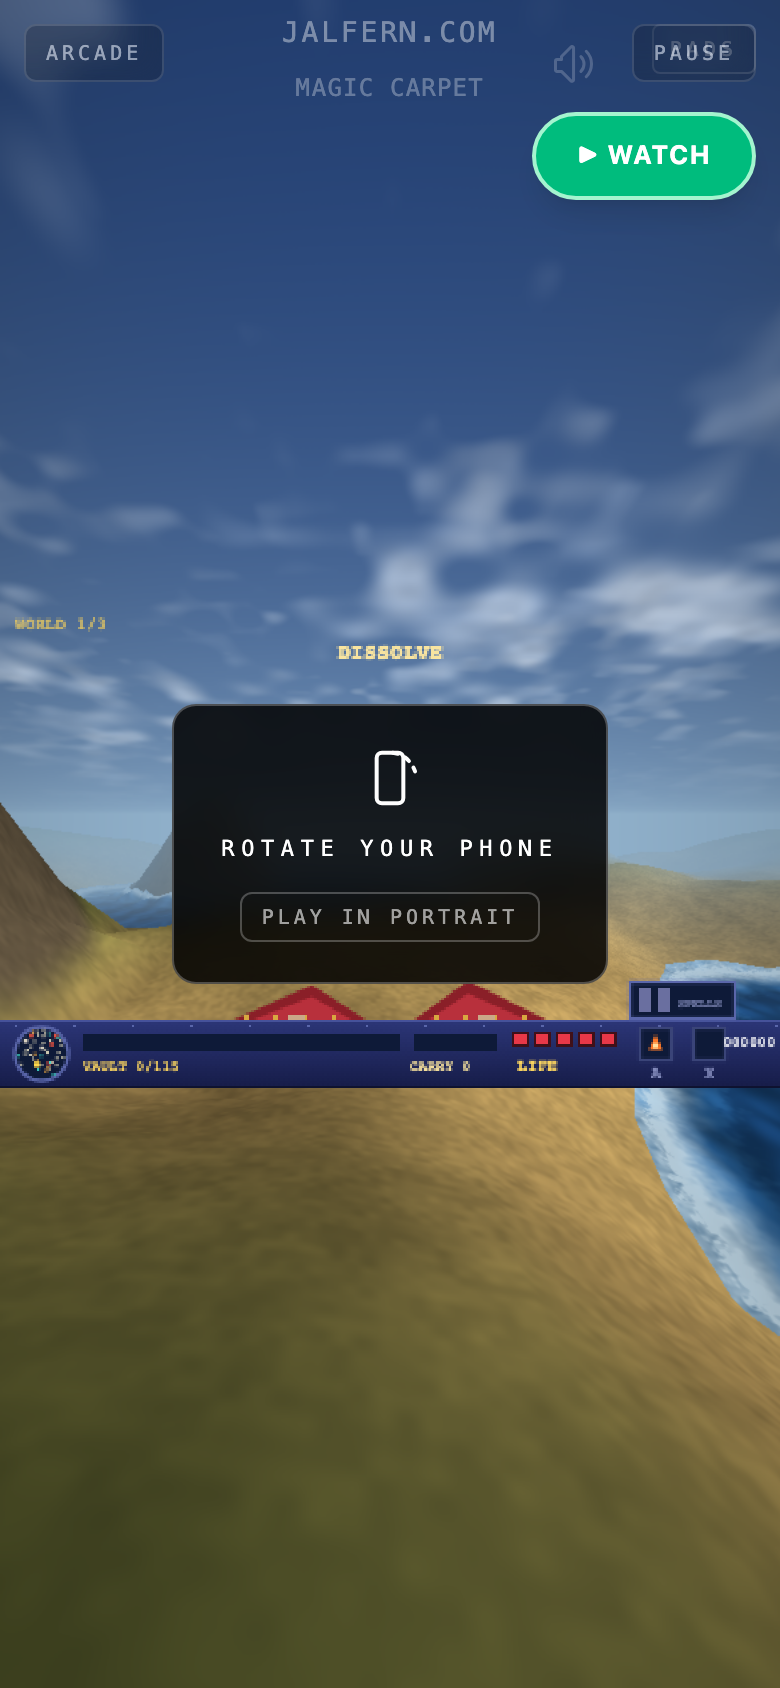
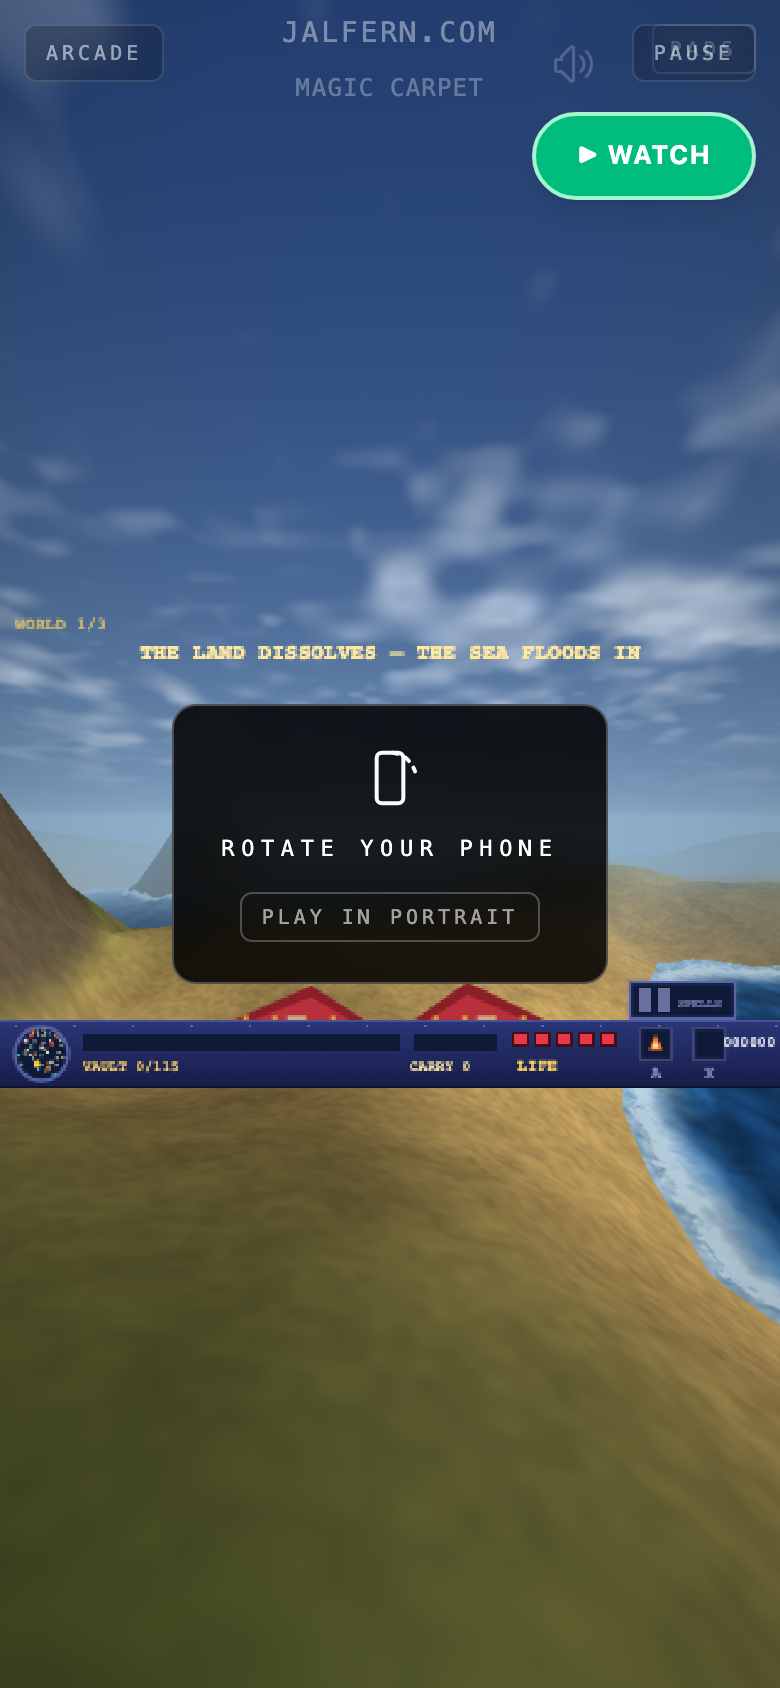
MagicCarpet #1697: crumble landing feedback — size/proximity-scaled thud+slurp on the muffle bus, landing shake, cold grit puff off the deform queue, 13 carpetcheck gates

diff --git a/src/games/MagicCarpet/sim.js b/src/games/MagicCarpet/sim.js
@@ -121,8 +121,16 @@ export const CRUMBLE_T = 10
 const sinkCurve = (a) => (a / CRUMBLE_T) ** 2            // collapse accelerates down
 const swellCurve = (a) => 1 - (1 - a / CRUMBLE_T) ** 2   // mounds swell up, ease-out
 
-function queueDeform(gs, cells, deltas, swell, rimCells, rimAmp) {
-    gs.deforms.push({ cells, deltas, e: swell ? 1 : 0, a: 0, done: 0, rimCells, rimAmp, rimPrev: 0 })
+// kind/mag/x/y/hot (#1697): what landed, how hard, where, and whether the
+// crater is hot. Presentation-only fields — they feed the landing thud, the
+// slurp and the grit puff, never the rules (stateHash never reads them).
+function queueDeform(gs, cells, deltas, swell, rimCells, rimAmp, kind, x, y, hot = 0) {
+    let mag = 0
+    for (const d of deltas) if (Math.abs(d) > mag) mag = Math.abs(d)
+    gs.deforms.push({
+        cells, deltas, e: swell ? 1 : 0, a: 0, done: 0, rimCells, rimAmp, rimPrev: 0,
+        kind, mag, x: wrap(x, MAP), y: wrap(y, MAP), hot,
+    })
 }
 
 function drainDeforms(gs) {
@@ -145,7 +153,20 @@ function drainDeforms(gs) {
             const gi = d.rimCells[i]
             gs.heights[gi] = Math.max(0, Math.min(96, gs.heights[gi] + dd))
         }
-        if (last) gs.deforms.splice(di, 1)
+        if (last) {
+            // #1697: the landing. A sink that finishes is ground that just
+            // dropped — say so (thud/shake/grit in the presentation layer,
+            // driven by these events). Mounds (swell) land upward without an
+            // impact: no thud, no grit, the swell sound already told it.
+            if (d.e === 0) {
+                gs.events.push({
+                    type: 'crumble', kind: d.kind, mag: d.mag, x: d.x, y: d.y,
+                    r: d.cells.length ? Math.ceil(Math.sqrt(d.cells.length)) * CELL : 0,
+                    hot: d.hot, flooded: d.kind === 'dissolve' ? 1 : 0,
+                })
+            }
+            gs.deforms.splice(di, 1)
+        }
     }
 }
 
@@ -169,7 +190,7 @@ export function crater(gs, x, y, r, depth, hot = 0) {
             else if (d <= r * 1.25) rimCells.push(gi)
         }
     }
-    queueDeform(gs, cells, deltas, 0, rimCells, 0.18 * depth)
+    queueDeform(gs, cells, deltas, 0, rimCells, 0.18 * depth, 'crater', x, y, hot)
     gs.craters.push({ x: wrap(x, MAP), y: wrap(y, MAP), r, t: gs.tick, hot })
     if (gs.craters.length > 10) gs.craters.shift()
 }
@@ -198,7 +219,7 @@ export function raiseTerrain(gs, x, y, r, hgt) {
         }
     }
     // the ground feeds the mound from around it: the rim dips while it swells
-    queueDeform(gs, cells, deltas, 1, rimCells, -0.15 * hgt)
+    queueDeform(gs, cells, deltas, 1, rimCells, -0.15 * hgt, 'raise', x, y)
     gs.events.push({ type: 'raise', x: wrap(x, MAP), y: wrap(y, MAP), r })
 }
 
@@ -236,7 +257,7 @@ export function dissolveLand(gs, x, y) {
     }
     // #1694: the wound opens over the crumble window — the guaranteed flood
     // arrives as the land sinks (complete by cast + CRUMBLE_T, same clamp).
-    queueDeform(gs, cells, deltas, 0, rimCells, 0.18 * DISSOLVE_SINK)
+    queueDeform(gs, cells, deltas, 0, rimCells, 0.18 * DISSOLVE_SINK, 'dissolve', x, y)
     const gone = []
     gs.huts.forEach((hs, i) => {
         if (Math.hypot(wrapD(hs.x - dx0), wrapD(hs.y - dy0)) < DISSOLVE_R) gone.push(i)
@@ -738,6 +759,20 @@ export const OPEN_CUTOFF = 18000
 export const MUFFLE_CUTOFF = 520
 export function muffleOf(gs) {
     return gs.invis > 0 ? MUFFLE_CUTOFF : OPEN_CUTOFF
+}
+
+// #1697: how a finished crumble LANDS on the wizard on the carpet — pure read
+// of the landing event plus where the carpet is, like muffleOf is of the veil.
+// Size scales the thud (a bolt crater is a knock, a volcano vent a collapse);
+// distance scales everything to silence: beyond CRUMBLE_HEAR_R the cast was
+// over the next hill — no thud, no shake, only the eye gets it. Never feeds
+// stateHash: it drives feel, not rules.
+export const CRUMBLE_HEAR_R = 90
+export function crumbleFeel(gs, e) {
+    const d = Math.hypot(wrapD(e.x - gs.x), wrapD(e.y - gs.y))
+    const prox = Math.max(0, 1 - d / CRUMBLE_HEAR_R)
+    const size = Math.min(1, e.mag / 12)
+    return { prox, vol: prox * (0.35 + 0.65 * size), shake: prox * (0.8 + 4.2 * size) }
 }
 
 export function step(gs, inp) {

diff --git a/src/games/MagicCarpet/index.jsx b/src/games/MagicCarpet/index.jsx
@@ -19,7 +19,7 @@ import {
     LEVELS,
     SPILLS, spellById,
     makeGame, step, autopilot, stateHash, setHand, cycleR, cycleL, crater, settleGround, INVIS_T,
-    hudTap, TAP, TRAY, muffleOf, OPEN_CUTOFF,
+    hudTap, TAP, TRAY, muffleOf, OPEN_CUTOFF, crumbleFeel,
 } from './sim.js'
 import { createCarpetGL } from './renderer.js'
 
@@ -308,6 +308,27 @@ const MagicCarpetGame = () => {
                     audioController.playSweep(180, 44, 0.8, 'sine', 0.08)
                     shake = Math.max(shake, 5)
                     say('THE LAND DISSOLVES — THE SEA FLOODS IN')
+                } else if (e.type === 'crumble') {
+                    // #1697: the ground finishes dropping and says so. Routed on
+                    // the muffle bus (#1612) — one-shot SFX bypass that bus, so
+                    // an unmuffled thud would cut the veil's hush; these are
+                    // heard *through* the carpet while veiled. Size scales the
+                    // note, proximity scales everything: distant casts land silent.
+                    const f = crumbleFeel(gs, e)
+                    if (f.shake > 0.3) shake = Math.max(shake, f.shake)
+                    if (f.vol > 0.03) {
+                        const size = Math.min(1, e.mag / 12)
+                        if (e.kind === 'dissolve') {
+                            // the sea pouring into a new wound: a glide down into
+                            // a thick low glug
+                            audioController.ambSweep(300, 70, 0.42, 'sine', 0.1 * f.vol)
+                            audioController.ambTone(88, 0.12, 'triangle', 0.07 * f.vol, 0.18)
+                        } else {
+                            // sub-bass thud: bigger craters sit lower and longer
+                            audioController.ambTone(66 - size * 24, 0.14 + size * 0.24, 'square', 0.11 * f.vol)
+                            audioController.ambTone(41 - size * 8, 0.3 + size * 0.3, 'square', 0.05 * f.vol, 0.08)
+                        }
+                    }
                 } else if (e.type === 'dissolveHut') {
                     // A hut swallowed whole: one muffled gulp of water.
                     audioController.playSweep(300, 90, 0.22, 'triangle', 0.05)
@@ -916,7 +937,9 @@ const MagicCarpetGame = () => {
                     settleGround(gs) // #1694: the dig gates read the LANDED crater, not the window
                     return gs.craters.length
                 },
-                fx: (e) => { if (renderer) renderer.handleEvents([e], gs) },
+                fx: (e) => { handleEvents([e]); if (renderer) renderer.handleEvents([e], gs) },
+                sfx: () => audioController.sfx,
+                carpet: () => ({ x: gs.x, y: gs.y, seed: gs.seed }),
                 veil: () => { gs.invis = 400; return gs.invis },
                 killHut: () => { const hs = gs.huts[0]; hs.burn = 0; hs.dead = true; return 1 },
                 // #1673 (phone pass): the browser-side tray/tap gates need a spell

diff --git a/src/games/MagicCarpet/renderer.js b/src/games/MagicCarpet/renderer.js
@@ -606,6 +606,29 @@ void main(){
         }
     }
 
+    // #1697: fresh craters throw grit as the crumble window closes — cold dust
+    // riding the #1646 ash pool (hops and settles, dies fast). Deliberately no
+    // scorch and no fire tint: the original's cold craters stayed cold, and a
+    // hot crater's heat glows in the pit — the grit it throws is just rock.
+    const spawnGrit = (gs, e) => {
+        if (e.kind !== 'crater' || e.mag < 3) return
+        const wrapv = (v) => ((v % MAP) + MAP) % MAP
+        const n = Math.min(14, 4 + Math.round(e.mag))
+        const col = [0.58, 0.53, 0.44]
+        for (let i = 0; i < n; i++) {
+            const a = Math.random() * Math.PI * 2, rr = e.r * (1 + Math.random() * 0.25)
+            const gx = wrapv(e.x + Math.cos(a) * rr), gy = wrapv(e.y + Math.sin(a) * rr)
+            spawn(gx, heightAt(gs, gx, gy) + 0.8 + Math.random(), gy, 'ash',
+                Math.cos(a) * 0.4, 0.5 + Math.random() * 1.2, Math.sin(a) * 0.4,
+                0.5 + e.mag * 0.06 + Math.random() * 0.5, 26 + Math.random() * 18, col)
+        }
+        for (let i = 0; i < Math.max(2, n / 5); i++) {
+            const a = Math.random() * Math.PI * 2, rr = e.r * (0.9 + Math.random() * 0.3)
+            const gx = wrapv(e.x + Math.cos(a) * rr), gy = wrapv(e.y + Math.sin(a) * rr)
+            spawn(gx, heightAt(gs, gx, gy) + 1, gy, 'smoke', (Math.random() - 0.5) * 0.3, 0.3 + Math.random() * 0.3, (Math.random() - 0.5) * 0.3, 1.6 + Math.random() * 1.2, 36 + Math.random() * 24, [0.5, 0.46, 0.4])
+        }
+    }
+
     // Volcano vents (#1612 item 5): live lava fountains for a while after an
     // eruption. Presentation-only; the sim's hot craters carry the truth.
     const vents = []
@@ -648,6 +671,7 @@ void main(){
             else if (e.type === 'towerDown') { spawnBurst(gs, e.x, e.y, 14, [1.0, 0.45, 0.2]); addScorch(e.x, e.y, 12, 0.5) }
             else if (e.type === 'wizardDown') { spawnBurst(gs, e.x, e.y, 22, [1.4, 0.5, 0.3]); addScorch(e.x, e.y, 18, 0.6) }
             else if (e.type === 'kill') spawnCrumble(gs, e.x, e.y, e.kind)
+            else if (e.type === 'crumble') spawnGrit(gs, e)
             // #1639 SHATTER: icy splinters and a cold flare — deliberately NO
             // scorch mark: the kill spell leaves the land untouched, and the
             // renderer keeps that promise on screen as the sim does in the sim.
